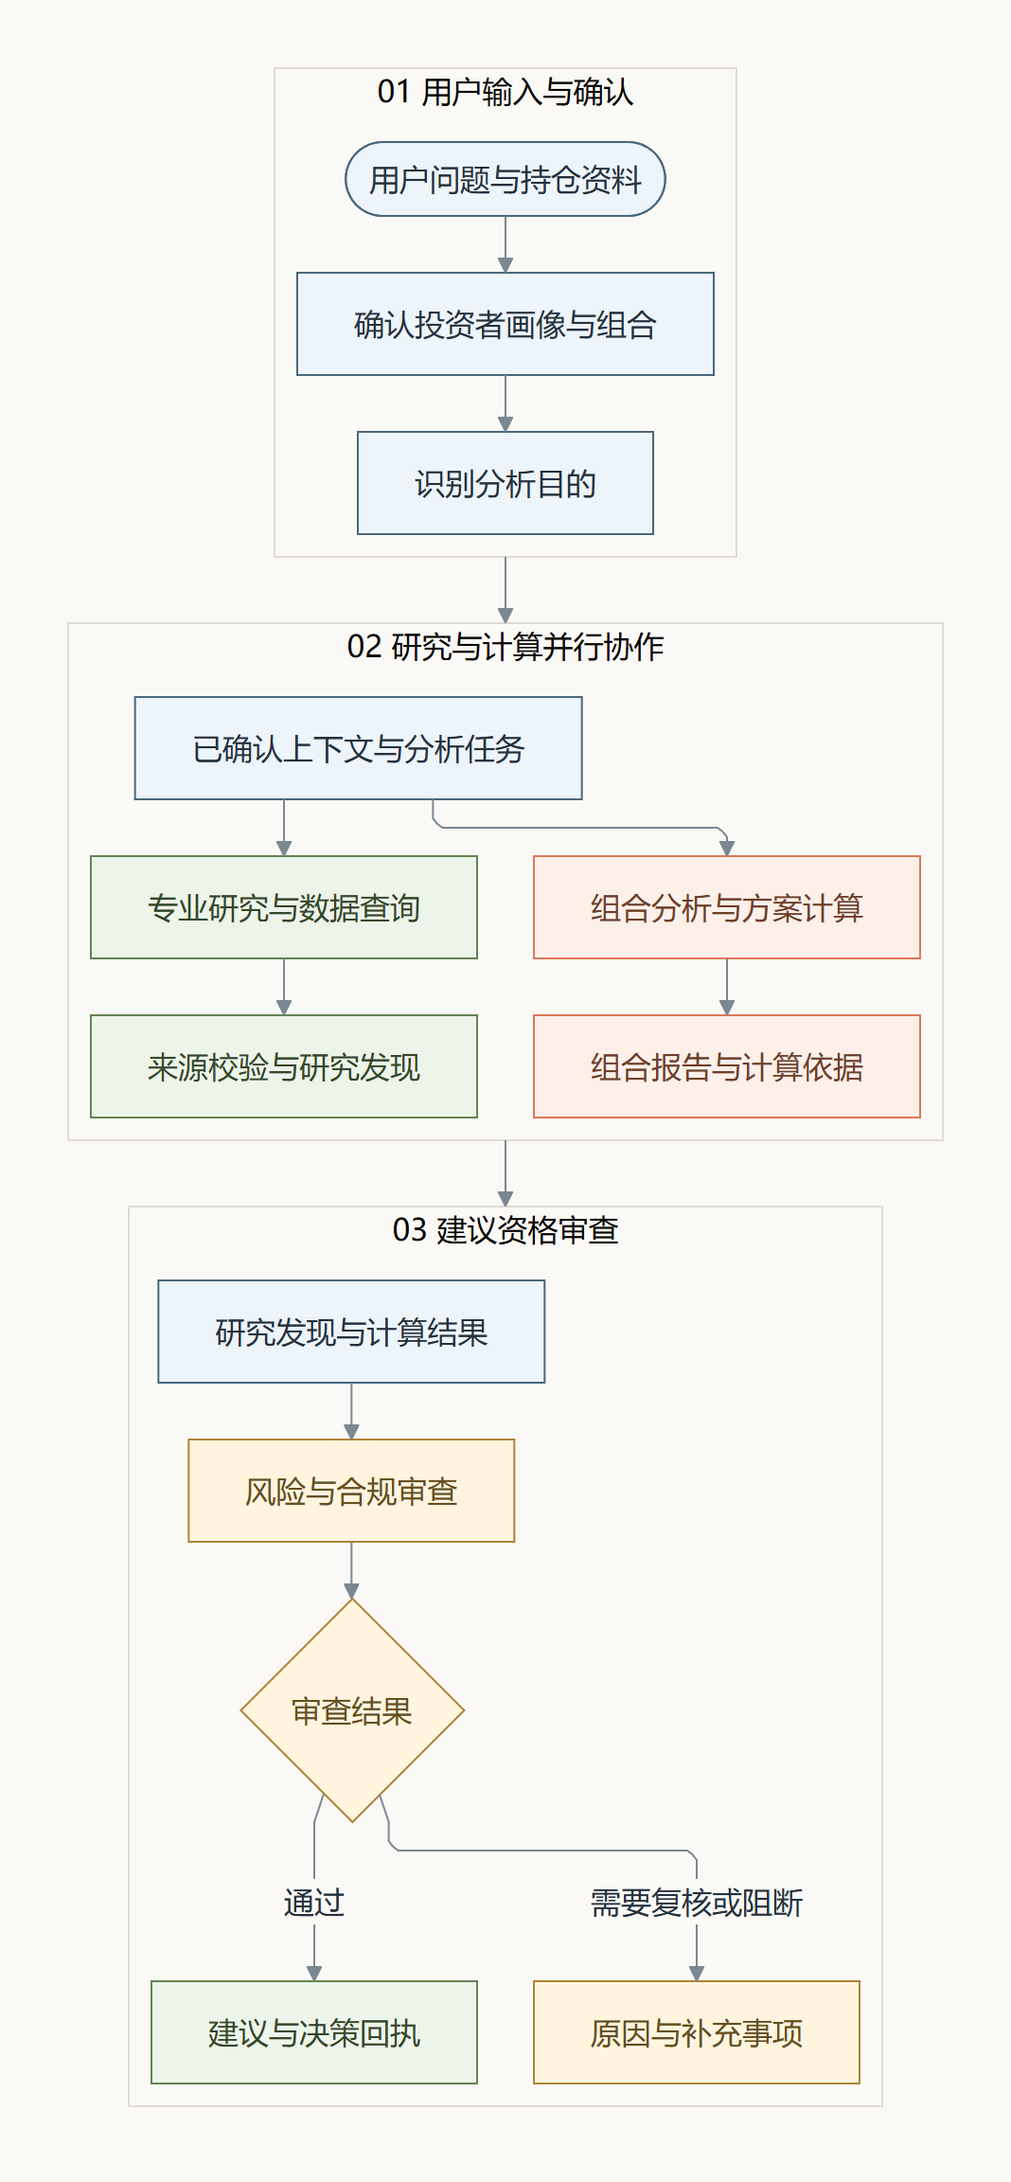
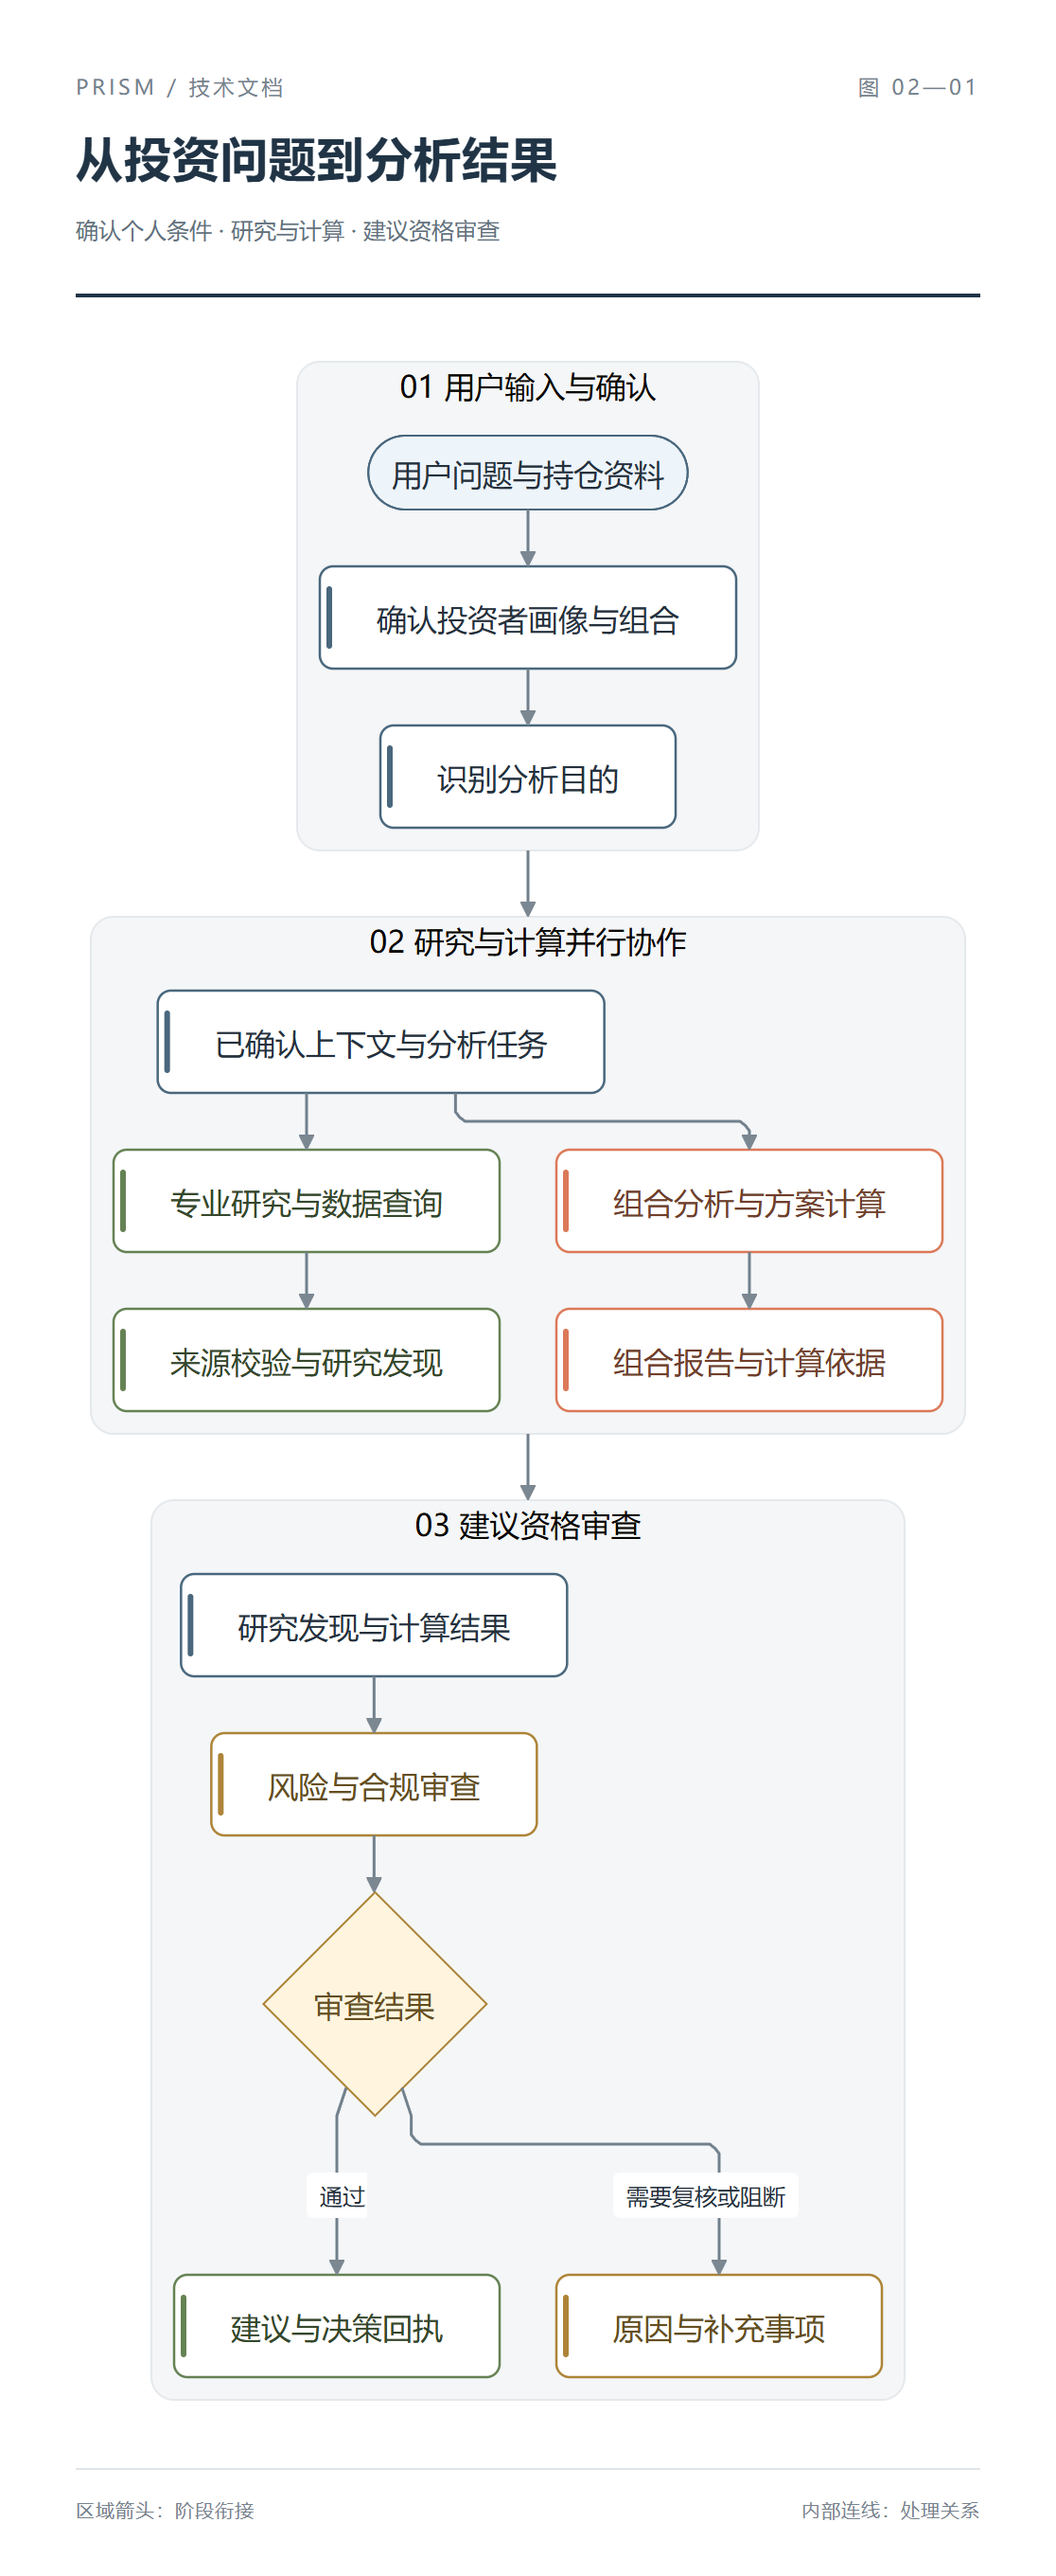
docs: 提升技术图的排版与视觉层级

diff --git a/docs/submission/figures/judge-diagrams.css b/docs/submission/figures/judge-diagrams.css
@@ -1,0 +1,76 @@
+#figure {
+  box-sizing: border-box;
+  padding: 38px 40px 28px;
+  background: #ffffff;
+  color: #203446;
+  font-family: "Microsoft YaHei", sans-serif;
+}
+.figure-header {
+  padding: 0 0 24px;
+  margin: 0 0 26px;
+  border-bottom: 2px solid #203446;
+}
+.figure-kicker {
+  display: flex;
+  justify-content: space-between;
+  gap: 24px;
+  color: #74828e;
+  font-size: 11px;
+  letter-spacing: 1.8px;
+  margin-bottom: 12px;
+}
+.figure-title {
+  font-size: 25px;
+  font-weight: 700;
+  letter-spacing: 0.5px;
+  line-height: 1.5;
+}
+.figure-subtitle {
+  margin-top: 8px;
+  color: #63717d;
+  font-size: 12px;
+  line-height: 1.7;
+}
+.figure-footer {
+  display: flex;
+  justify-content: space-between;
+  margin-top: 24px;
+  padding-top: 14px;
+  border-top: 1px solid #dfe5e9;
+  color: #77838e;
+  font-size: 10px;
+  letter-spacing: 0.5px;
+}
+#figure svg .cluster > rect {
+  fill: #f4f6f8 !important;
+  stroke: #e4e9ed !important;
+  stroke-width: 1px !important;
+  rx: 12px;
+  ry: 12px;
+}
+#figure svg .cluster-label {
+  font-weight: 700;
+  color: #203446;
+}
+#figure svg .node rect {
+  rx: 7px;
+  ry: 7px;
+  fill: #ffffff !important;
+  stroke-width: 1.25px !important;
+}
+#figure svg .nodeLabel {
+  font-weight: 500;
+  line-height: 1.6;
+}
+#figure svg .flowchart-link {
+  stroke: #71808c !important;
+  stroke-width: 1.5px !important;
+}
+#figure svg .edgeLabel {
+  font-size: 12px;
+}
+#figure svg .edgeLabel p {
+  padding: 3px 7px;
+  border-radius: 4px;
+  background: #ffffff !important;
+}

diff --git a/docs/plans/2026-09-17-judge-technical-document.md b/docs/plans/2026-09-17-judge-technical-document.md
@@ -33,3 +33,5 @@
 正文标题与 README 入口使用“技术文档”。六幅技术图采用已有样图的分区配色，增加阶段、节点类型与状态分支，另附真实总资产构成图和创新点关系图。八幅 Mermaid 图均经浏览器渲染和图像检查。文档检查与真实报告复算通过，包含五幅产品截图、十九张表格及四十九处有效工程路径。验证材料保存在已忽略的 `output/report-review/`，覆盖真实报告复算、Markdown 与公式解析、Mermaid 语法和渲染、目录链接、图表编号、工程路径及第三、五、八章结构。
 
 六幅流程图采用竖向阶段、内部并列分支及折线连接，正文使用固定 PNG，Mermaid 源文件保留在可展开区域。参考工程文档的研究编排和双闸门样图，已完成图像检查与连线穿越无关节点的几何检查，六幅图均为零处。
+
+六幅流程图统一使用独立图题、编号、副标题与阅读说明，阶段底板和节点卡片形成视觉层级。样式源文件位于 figures/judge-diagrams.css，采用有限配色、白底节点与类别色条。新版渲染、节点穿线检查、文档结构和真实报告复算通过。

diff --git a/LOG.md b/LOG.md
@@ -1,5 +1,11 @@
 # LOG
 
+## 2026-09-18：技术图统一视觉样式
+
+- 采用 modern-web-design 技能中的字体层级、有限配色与留白原则，统一六幅技术图的图题、编号、副标题及阅读说明。
+- 阶段区域使用浅灰底板，功能节点采用白底圆角卡片与类别色条，保留竖向阶段和并列分支；样式保存于 judge-diagrams.css。
+- 六幅图完成渲染及图像检查，连线穿越无关节点检查为零处。文档结构、五十处工程路径及真实报告复算通过。
+
 ## 2026-09-18：技术图布局与连线
 
 - 参考工程文档的研究编排及双闸门样图，重新组织六幅流程图：阶段竖向连接，并列关系在阶段内部横向展开，数据分支在所属区域汇合。

diff --git a/TODO.md b/TODO.md
@@ -7,6 +7,7 @@
 - [x] 根据已有实现提炼三项领域算法，补充输入、处理步骤与输出，核对评分、证据判定和再平衡规则并完成文档验证。
 - [x] 标题及 README 入口改为技术文档，参考已有样图丰富六幅技术图，新增资产构成与创新关系图并完成八幅图的渲染检查。
 - [x] 参考工程文档样图调整六幅流程图的阶段布局和连线，正文使用固定高清图片，完成节点穿线检查。
+- [x] 应用视觉设计技能统一六幅技术图的标题层级、阶段底板、节点卡片及类别色条，完成渲染与文档验证。
 
 > Updated: 2026-09-15
 
